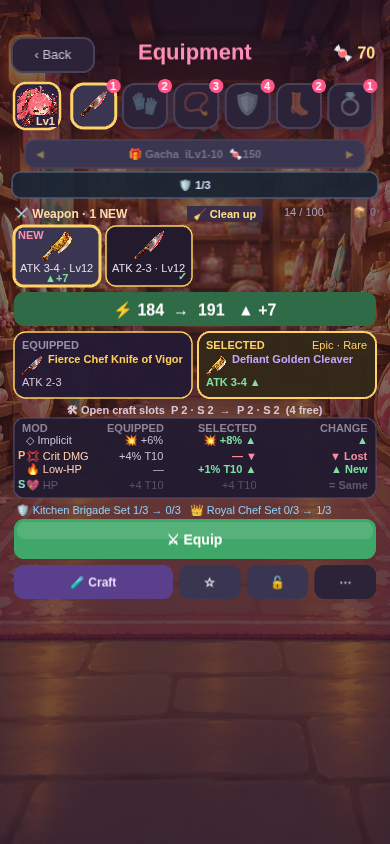
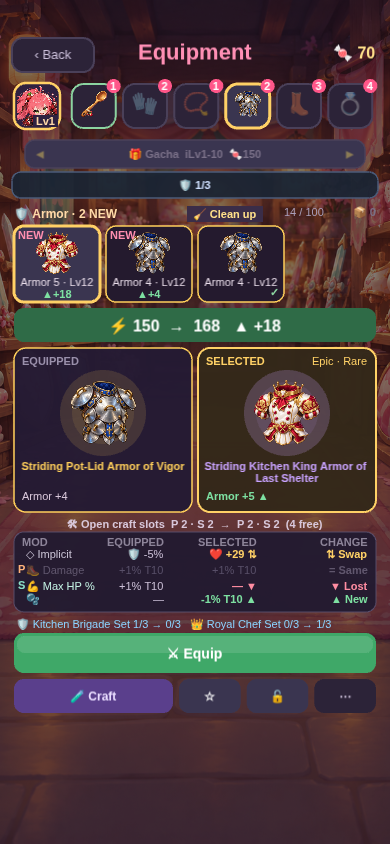
v6.55.52: large gear artwork in Equipment comparison and grid
Claude-Session: https://claude.ai/code/session_01Je24fSjffqCWWdm2UGg2b2

diff --git a/game.js b/game.js
@@ -50,7 +50,7 @@ function clampPlayerStats(p){ if(p._uqGlass){p.maxhp=Math.max(1,Math.round(p.max
 const TAU = Math.PI * 2;   // global — Game scene (บอส/VFX) อ้างถึง TAU ด้วย เดิมประกาศเฉพาะใน Boot.create → "TAU is not defined"
 
 /* ---- เวอร์ชัน + บันทึกUpdates (build-www ดึงไปทำ version.json ให้หน้า download) ---- */
-const GAME_VERSION = '6.55.51';
+const GAME_VERSION = '6.55.52';
 // Miniboss rewards: choose damage at an HP cost, or recovery.
 const CROSSROADS=[
   {id:'blood',name:'Blood Pact',desc:'+25% damage for 90 seconds',detail:'Lose 30% of current HP',artKey:'prize_jackpot',color:0xff6f9d},
@@ -64,6 +64,7 @@ const RELEASES_URL = 'https://github.com/hardza1230/Survival-like-Mobile-Game/re
 
 function realStageBossMul(i){return i===2||i===3?1.6:i===4?1.25:1;}
 const CHANGELOG = [
+  {v:'6.55.52',date:'2026-10-05',title:'Big gear art',items:['Equipment comparison shows large item artwork with a grade-coloured glow','Larger gear slot and grid icons']},
   {v:'6.55.51',date:'2026-10-05',title:'Compact hero',items:['Equipment: hero is a small avatar at the top-left; all six gear slots sit in one row']},
   {v:'6.55.50',date:'2026-10-05',title:'Tidier Equipment',items:['Big Power banner answers “is it better?” first','One big Equip / Enhance button; Craft, ★ and 🔒 below','Sell and Dismantle moved into ⋯ More']},
   {v:'6.55.49',date:'2026-10-05',title:'Profile frame',items:['Equipment shows the hero as a framed profile portrait, freeing more room for gear']},
@@ -7744,12 +7745,12 @@ class Game extends Phaser.Scene {
     {const cb=this.add.text(w/2+30,y,'🧹 Clean up',{fontFamily:'sans-serif',fontStyle:'bold',fontSize:'9.5px',color:'#ffe08a',backgroundColor:'#3a2d48',padding:{x:6,y:2}}).setOrigin(0.5,0);this.menu.add(cb);this._zone(w/2-12,y-5,84,22,()=>{this.menuScreen='gearClean';this.buildMenuScreen();});}
     y+=20;
     if(!items.length){ const empty=this.add.text(w/2,y+30,'No items in this slot',{fontFamily:'sans-serif',fontSize:'12px',color:'#9a90ab'}).setOrigin(0.5);this.menu.add(empty);this.menu.setVisible(true);return; }
-    const gap=6,cols=4,cw=(w-28-gap*(cols-1))/cols,ch=60,visible=items.slice(page*pageSize,page*pageSize+pageSize),basePow=heroPower(Save.data.character||'momo',null);
+    const gap=6,cols=4,cw=(w-28-gap*(cols-1))/cols,ch=76,visible=items.slice(page*pageSize,page*pageSize+pageSize),basePow=heroPower(Save.data.character||'momo',null);
     visible.forEach((item,i)=>{ const base=GEAR_ALL.find(g=>g.id===item.baseId); if(!base)return; const col=i%cols,row=Math.floor(i/cols),x=14+col*(cw+gap),iy=y+row*(ch+gap),on=selected&&selected.uid===item.uid,eq=Save.isGearEquipped(item.uid),tl=TIER_LABEL[item.grade]||TIER_LABEL.common;
       const color=Phaser.Display.Color.HexStringToColor(tl.color).color,g=this.add.graphics();g.fillStyle(on?0x3a3550:0x241a2e,1);g.fillRoundedRect(x,iy,cw,ch,10);g.lineStyle(on?3:1.5,on?0xffd166:color,1);g.strokeRoundedRect(x,iy,cw,ch,10);
-      const artKey='gear_'+base.id,em=this.textures.exists(artKey)?this.add.image(x+cw/2,iy+20,artKey).setDisplaySize(35,35):this.add.text(x+cw/2,iy+20,base.emoji,{fontSize:'22px'}).setOrigin(0.5),nm=this.add.text(x+cw/2,iy+42,gearBaseStatText(item)+' · Lv'+(item.itemLevel||1),{fontFamily:'sans-serif',fontSize:'7px',color:'#e8dce9'}).setOrigin(0.5);
+      const artKey='gear_'+base.id,em=this.textures.exists(artKey)?this.add.image(x+cw/2,iy+27,artKey).setDisplaySize(50,50):this.add.text(x+cw/2,iy+27,base.emoji,{fontSize:'30px'}).setOrigin(0.5),nm=this.add.text(x+cw/2,iy+56,gearBaseStatText(item)+' · Lv'+(item.itemLevel||1),{fontFamily:'sans-serif',fontSize:'7px',color:'#e8dce9'}).setOrigin(0.5);
       this.menu.add([g,em,nm]);
-      if(!eq&&item.grade!=='start'){const dp=gearPowerDelta(item,basePow);if(dp){const pt=this.add.text(x+cw/2,iy+52,(dp>0?'▲+':'▼')+dp,{fontFamily:'sans-serif',fontStyle:'bold',fontSize:'7.6px',color:dp>0?'#7de0a1':'#ff8da2'}).setOrigin(0.5);this.menu.add(pt);}}
+      if(!eq&&item.grade!=='start'){const dp=gearPowerDelta(item,basePow);if(dp){const pt=this.add.text(x+cw/2,iy+68,(dp>0?'▲+':'▼')+dp,{fontFamily:'sans-serif',fontStyle:'bold',fontSize:'7.6px',color:dp>0?'#7de0a1':'#ff8da2'}).setOrigin(0.5);this.menu.add(pt);}}
       if(item.isNew){const nb=this.add.text(x+4,iy+3,'NEW',{fontFamily:'sans-serif',fontStyle:'bold',fontSize:'7px',color:'#ff8fb0'}).setOrigin(0,0);this.menu.add(nb);}
       if(item.favorite){const fav=this.add.text(x+cw-4,iy+3,'★',{fontSize:'10px',color:'#ffd166'}).setOrigin(1,0);this.menu.add(fav);}
       if(item.craftedAt&&!item.isNew){const cb=this.add.text(x+4,iy+3,'⚒',{fontSize:'9px',color:'#c9a3ff'}).setOrigin(0,0);this.menu.add(cb);}
@@ -7764,20 +7765,22 @@ class Game extends Phaser.Scene {
       for(const [dir,label,px] of [[-1,'‹',w/2-76],[1,'›',w/2+76]]){const enabled=(dir<0?page>0:page<pages-1),pg=this.add.graphics();pg.fillStyle(enabled?0x3a3550:0x241a2e,1);pg.fillRoundedRect(px-pw/2,py,pw,ph,8);const tx=this.add.text(px,py+ph/2,label,{fontSize:'18px',color:enabled?'#ffffff':'#5e5062'}).setOrigin(0.5);this.menu.add([pg,tx]);if(enabled)this._zone(px-pw/2,py,pw,ph,()=>{this.gearPageBySlot[sel]=page+dir;this.buildMenuScreen();});} y+=ph+5; }
     selected=Save.gearItem(this.gearSelectedUid)||selected; const base=selected&&GEAR_ALL.find(g=>g.id===selected.baseId),equipped=Save.equippedGearItem(sel);
     if(selected&&base){ const eqBase=equipped&&GEAR_ALL.find(g=>g.id===equipped.baseId),tl=TIER_LABEL[selected.grade]||TIER_LABEL.common,rl=RARITY_LABEL[selected.craftState]||RARITY_LABEL.magic,eq=Save.isGearEquipped(selected.uid);
-      const rows=gearCompareRows(equipped,selected).filter(r=>r.key==='attack'||r.key==='armor'),affLines=it=>{if(!it)return[];const ib=GEAR_ALL.find(g=>g.id===it.baseId),im=ensureImplicit(it),idf=im&&implicitDef(im.id),out=[];if(idf)out.push({t:'◇ '+implicitText(it)+' · '+IMPLICIT_TIER[idf.rank],c:IMPLICIT_COLOR[idf.rank]});else if(ib&&ib.unique)out.push({t:'★ '+ib.desc,c:'#ff8f3a'});const af=(it.affixes||[]).map(a=>({a,d:affixDef(a.id)})).filter(x=>x.d);for(const kind of ['prefix','suffix'])af.filter(x=>(x.d.kind||'suffix')===kind).slice(0,3).forEach(x=>out.push({t:(kind==='prefix'?'P ':'S ')+x.d.emoji+x.d.label+' '+x.d.fmt(x.a.v)+' T'+(x.a.t||3),c:kind==='prefix'?'#ffb27a':'#8be0c8'}));return out;},eqAff=affLines(equipped),selAff=affLines(selected),affN=0,affTop=44+Math.max(1,rows.length)*14+6,panelH=affTop+2,cgap=6,cw=(w-28-cgap)/2,leftX=14,rightX=14+cw+cgap;
+      const rows=gearCompareRows(equipped,selected).filter(r=>r.key==='attack'||r.key==='armor'),affLines=it=>{if(!it)return[];const ib=GEAR_ALL.find(g=>g.id===it.baseId),im=ensureImplicit(it),idf=im&&implicitDef(im.id),out=[];if(idf)out.push({t:'◇ '+implicitText(it)+' · '+IMPLICIT_TIER[idf.rank],c:IMPLICIT_COLOR[idf.rank]});else if(ib&&ib.unique)out.push({t:'★ '+ib.desc,c:'#ff8f3a'});const af=(it.affixes||[]).map(a=>({a,d:affixDef(a.id)})).filter(x=>x.d);for(const kind of ['prefix','suffix'])af.filter(x=>(x.d.kind||'suffix')===kind).slice(0,3).forEach(x=>out.push({t:(kind==='prefix'?'P ':'S ')+x.d.emoji+x.d.label+' '+x.d.fmt(x.a.v)+' T'+(x.a.t||3),c:kind==='prefix'?'#ffb27a':'#8be0c8'}));return out;},eqAff=affLines(equipped),selAff=affLines(selected),affN=0,AH=Math.min(92,Math.round(w*0.22)),affTop=56+AH+Math.max(1,rows.length)*14+6,panelH=affTop+2,cgap=6,cw=(w-28-cgap)/2,leftX=14,rightX=14+cw+cgap;
       {const bp=heroPower(Save.data.character||'momo',null),dp=eq?0:gearPowerDelta(selected,bp),col=eq?0x3a3550:dp>0?0x2f6b47:dp<0?0x7a3442:0x3a3550,g=this.add.graphics();g.fillStyle(col,1);g.fillRoundedRect(14,y,w-28,34,10);
         const pt=this.add.text(w/2,y+17,eq?'⚡ Power '+bp+'  ·  equipped':'⚡ '+bp+'  →  '+(bp+dp)+'   '+(dp>0?'▲ +'+dp:dp<0?'▼ '+dp:'= 0'),{fontFamily:'sans-serif',fontStyle:'bold',fontSize:'16px',color:'#ffffff'}).setOrigin(.5);this.menu.add([g,pt]);y+=40;}   // v6.55.50: คำตอบหลัก "ใส่แล้วดีขึ้นไหม" อยู่บนสุด
       const drawCompareCard=(x,item,itBase,title,on)=>{const itTl=item?(TIER_LABEL[item.grade]||TIER_LABEL.common):TIER_LABEL.start,g=this.add.graphics();g.fillStyle(on?0x332819:0x241a33,0.97);g.fillRoundedRect(x,y,cw,panelH,12);g.lineStyle(on?2:1.5,on?0xffd166:Phaser.Display.Color.HexStringToColor(itTl.color).color,1);g.strokeRoundedRect(x,y,cw,panelH,12);this.menu.add(g);
         const hd=this.add.text(x+8,y+7,title,{fontFamily:'sans-serif',fontStyle:'bold',fontSize:'8.5px',color:on?'#ffd166':'#9a90ab'}).setOrigin(0,0);
         const artKey=item&&itBase?'gear_'+itBase.id:null,hasArt=artKey&&this.textures.exists(artKey);
-        const icon=hasArt?this.add.image(x+18,y+34,artKey).setDisplaySize(24,24):null;
-        const name=item&&itBase?(hasArt?'':itBase.emoji+' ')+gearAffixName(itBase.name,item.affixes||[]):'— Empty —';
-        const nm=this.add.text(x+(hasArt?34:8),y+21,name,{fontFamily:'sans-serif',fontStyle:'bold',fontSize:'9px',color:itTl.color,wordWrap:{width:cw-(hasArt?42:16)},maxLines:1}).setOrigin(0,0);this.menu.add(icon?[hd,icon,nm]:[hd,nm]);};
+        // v6.55.52: อาร์ตไอเทมใหญ่กลางการ์ด + แสงหลังตามเกรด
+        const tc=Phaser.Display.Color.HexStringToColor(itTl.color).color,ax=x+cw/2,ay=y+22+AH/2,glow=this.add.graphics();glow.fillStyle(tc,on?0.22:0.14);glow.fillCircle(ax,ay,AH*0.5);glow.fillStyle(tc,0.10);glow.fillCircle(ax,ay,AH*0.36);this.menu.add(glow);
+        const icon=hasArt?this.add.image(ax,ay,artKey).setDisplaySize(AH*0.9,AH*0.9):this.add.text(ax,ay,item&&itBase?itBase.emoji:'—',{fontSize:Math.round(AH*0.5)+'px'}).setOrigin(0.5);
+        const name=item&&itBase?gearAffixName(itBase.name,item.affixes||[]):'— Empty —';
+        const nm=this.add.text(ax,y+26+AH,name,{fontFamily:'sans-serif',fontStyle:'bold',fontSize:'9px',color:itTl.color,align:'center',wordWrap:{width:cw-12},maxLines:2}).setOrigin(0.5,0);this.menu.add([hd,icon,nm]);};
       drawCompareCard(leftX,equipped,eqBase,'EQUIPPED',false); drawCompareCard(rightX,selected,base,eq?'EQUIPPED NOW':'SELECTED',true);
-      rows.forEach((r,i)=>{const ry=y+44+i*14,from=gearStatText(r,r.from),to=gearStatText(r,r.to),dc=r.delta>0.001?'#7de0a1':r.delta<-0.001?'#ff8da2':'#bbaabd',arrow=r.delta>0.001?' ▲':r.delta<-0.001?' ▼':'';
+      rows.forEach((r,i)=>{const ry=y+56+AH+i*14,from=gearStatText(r,r.from),to=gearStatText(r,r.to),dc=r.delta>0.001?'#7de0a1':r.delta<-0.001?'#ff8da2':'#bbaabd',arrow=r.delta>0.001?' ▲':r.delta<-0.001?' ▼':'';
         const lt=this.add.text(leftX+8,ry,r.label+' '+from,{fontFamily:'sans-serif',fontSize:'8.5px',color:'#d8c7da'}).setOrigin(0,0);
         const rt=this.add.text(rightX+8,ry,r.label+' '+to+arrow,{fontFamily:'sans-serif',fontStyle:Math.abs(r.delta)>0.001?'bold':'normal',fontSize:'8.5px',color:dc}).setOrigin(0,0);this.menu.add([lt,rt]);});
-      if(!rows.length){const same=this.add.text(w/2,y+47,eq?'Currently equipped':'No numeric stat difference',{fontFamily:'sans-serif',fontSize:'9px',color:'#a99fbb'}).setOrigin(0.5);this.menu.add(same);}
+      if(!rows.length){const same=this.add.text(w/2,y+59+AH,eq?'Currently equipped':'No numeric stat difference',{fontFamily:'sans-serif',fontSize:'9px',color:'#a99fbb'}).setOrigin(0.5);this.menu.add(same);}
       if(affN){for(const [x,list] of [[leftX,eqAff],[rightX,selAff]]){const lg=this.add.graphics();lg.lineStyle(1,0x5a4f6e,0.8);lg.lineBetween(x+8,y+affTop-3,x+cw-8,y+affTop-3);const hd=this.add.text(x+8,y+affTop,'IMPLICIT · PREFIX · SUFFIX',{fontFamily:'sans-serif',fontStyle:'bold',fontSize:'8px',color:'#9a90ab'});this.menu.add([lg,hd]);
         (list.length?list:[{t:'No mods',c:'#8d8499'}]).forEach((o,i)=>{const at=this.add.text(x+8,y+affTop+14+i*13,o.t,{fontFamily:'sans-serif',fontSize:'8px',color:o.c,wordWrap:{width:cw-16},maxLines:1});this.menu.add(at);});}}
       const state=this.add.text(rightX+cw-8,y+7,tl.name+' · '+rl.name,{fontFamily:'sans-serif',fontSize:'8px',color:rl.color}).setOrigin(1,0);this.menu.add(state); y+=panelH+6;

diff --git a/CLAUDE.md b/CLAUDE.md
@@ -253,7 +253,8 @@ Dedicated deterministic forge WAVs for manual/auto roulette, visual tick cadence
 - **v6.55.49 (เจ้าของ: กรอบ Profile):** ตัวละครหน้า Equipment = กรอบสี่เหลี่ยมมนขอบทอง ครอปหัวจาก card_<id> (setCrop 62% กว้างจากบน 3%) + ป้ายชื่อ Lv · topH 0.19h ≤160
 - **v6.55.50 (เจ้าของ: จัดให้เป็นระเบียบ):** แถบ ⚡ Power ก่อน→หลัง ใหญ่สีเขียว/แดง อยู่ใต้กริดก่อนการ์ดเทียบ (ลบบรรทัด Power ล่าง + Gain/Lose ใน drawModCompare) · ปุ่ม: ⚔ Equip/⚒ Enhance เต็มกว้าง 40px · แถวสอง 🧪 Craft + ☆ + 🔓 + ⋯ · Sell/Dismantle ซ่อนใน More (`this._gearMore`=uid)
 - **v6.55.51 (เจ้าของ: ตัวละครไม่มีประโยชน์ เอาไว้มุมซ้ายเล็ก ๆ):** อวาตาร์ 46px ซ้ายสุด (ครอปหัว + Lv) + ช่องสวมใส่ 6 ช่องแถวเดียวเสมอ · ลบปุ่ม Hide (`gearFold` ไม่ใช้แล้ว) · แถบเซ็ทเต็มกว้าง
-- **เวอร์ชันปัจจุบัน v6.55.51** (`GAME_VERSION`) · สาขา `claude/gallant-shannon-vx0est` · Monster animation commit 1–6 เสร็จ (ดูหัวไฟล์)
+- **v6.55.52 (เจ้าของ: อยากเห็นอาร์ตอาวุธ/เกราะใหญ่):** การ์ด EQUIPPED/SELECTED มีอาร์ตใหญ่ AH=min(92,0.22w) กลางการ์ด + วงแสงสีเกรด · ชื่อ 2 บรรทัดกลาง · กริดไอคอน 35→50px ช่องสูง 76
+- **เวอร์ชันปัจจุบัน v6.55.52** (`GAME_VERSION`) · สาขา `claude/gallant-shannon-vx0est` · Monster animation commit 1–6 เสร็จ (ดูหัวไฟล์)
 - **งานค้าง:** (1) Monster animation commit 7 Chapter 2 ด่าน 1–2 รวม Sporeling → 8 Nectar รวม Tiny Grub → 9 Season/Root → 10 Elite/summon รวม Mini Jelly + Chapter 3 generic Elite + รีวิวภาพ/ประสิทธิภาพบนมือถือ (`docs/MONSTER_ANIMATION_PLAN.md`) (2) รีวิวบนมือถือจริงที่ค้าง: Mint Piercer balance เท่านั้น (เจ้าของทดสอบผ่านแล้ว 4 ต.ค. 2026: monster animation 2–6, VFX batch 1–5, Boss Loot Keep/Double/Reroll, เสียงทั้งหมด) (3) Play Store (พักไว้): ลบบัญชีในแอป, store listing, keystore, closed test
 - **v6.54.9 (เจ้าของ: อยากได้การ์ดสุ่มแบบ Jackpot แทน):** onBossDown → `openBossLootCards` (การ์ดคว่ำ 3 ใบจาก 7 ชนิด: Sugar/Currency/พลั่ว/ด้าย/🔩/หินแก่น/Gear · JACKPOT 25%+10%/ระดับยาก) แล้วค่อย revealStageReward · openMysteryCards รับ opt {prizes,title,hint} + fallback emoji ถ้าไม่มี artKey · ยกเลิก Sugar Bounty v6.54.8 (บอสยังไม่ดรอป orb/หัวใจ)
 - **v6.54.8 (เจ้าของ: ของดรอปบอสไร้ประโยชน์เพราะจบด่าน):** killEnemy บอสใหญ่ไม่ dropOrb/dropHeal → Sugar Bounty (60+30·stage)×diff reward เข้า sugarStage ตรง + แบนเนอร์ · มินิ/elite ดรอปเหมือนเดิม
